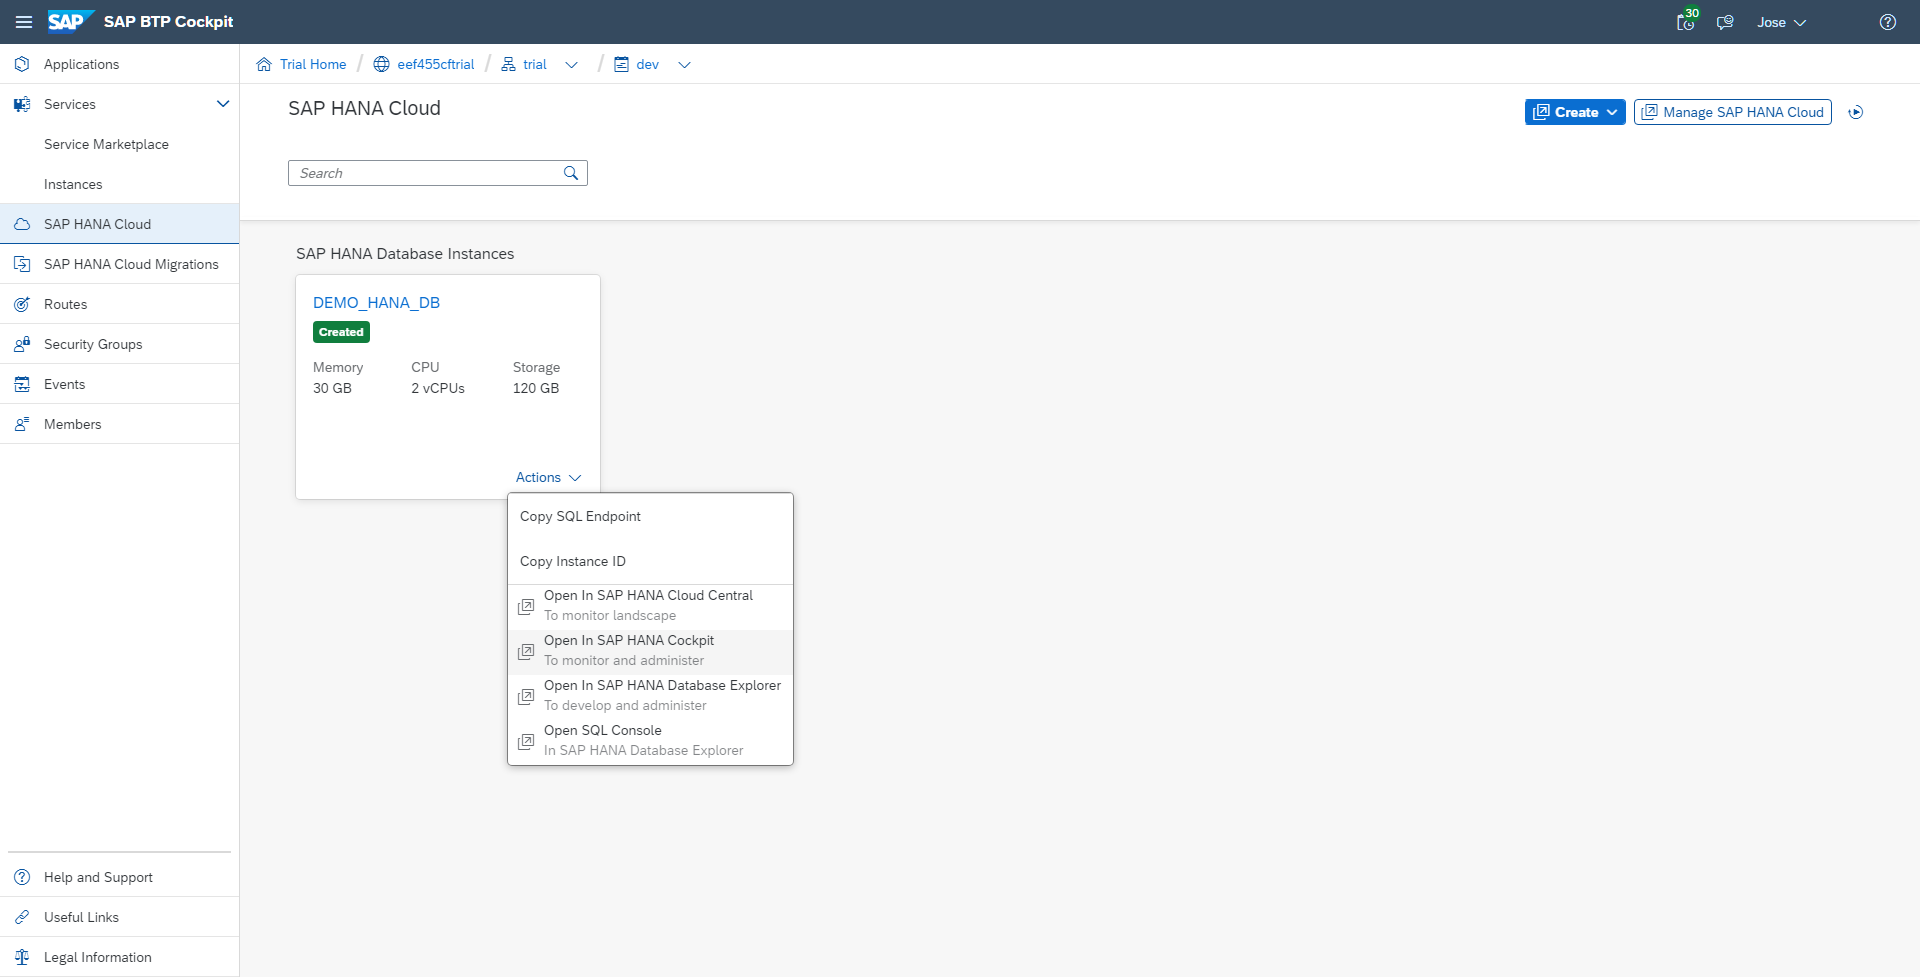
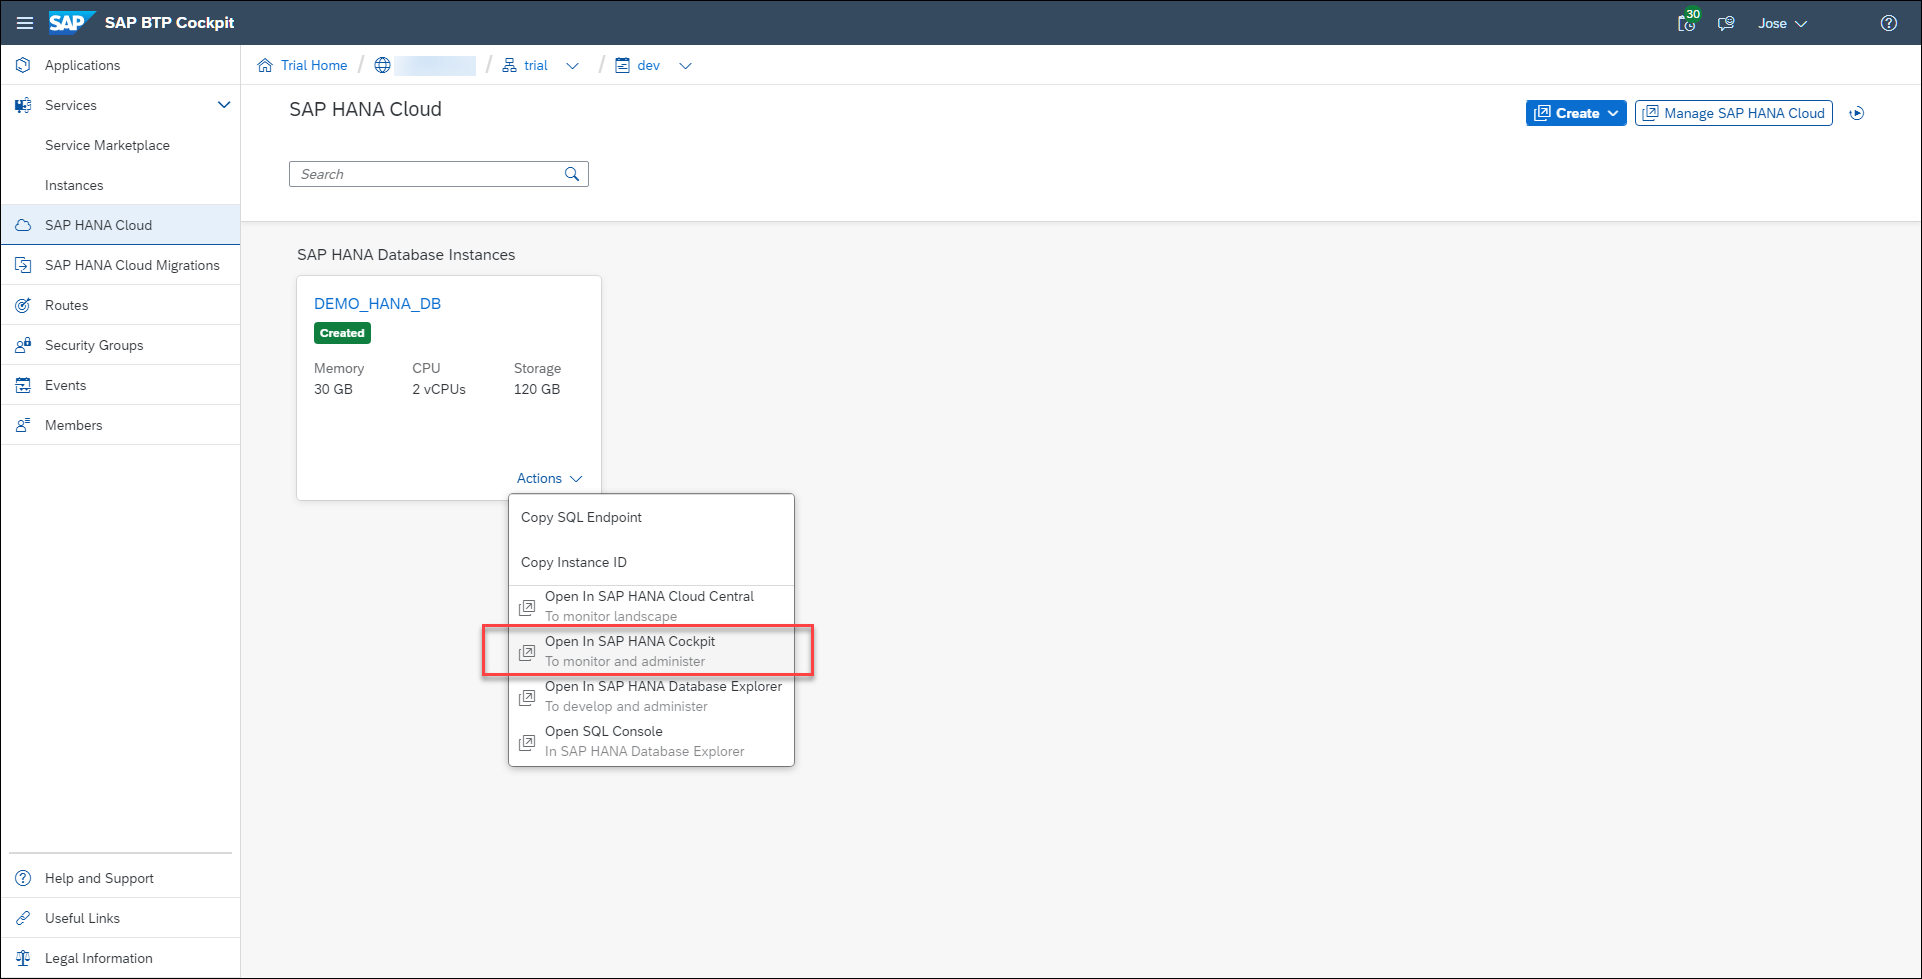
hana cockpit ex 1 update

diff --git a/exercises/hana_cockpit/ex_1/README.md b/exercises/hana_cockpit/ex_1/README.md
@@ -6,10 +6,18 @@ Through the Database Overview page, you can view key health indicators for this 
 
 This exercise will teach you the basics of navigating the Database Overview page and how to find the information you need as a database administrator.
 
-1. Navigate to your SAP HANA Cloud Trial instance from the SAP BTP Cockpit ("trial" subaccount and "dev" space). Open the SAP HANA cockpit by clicking item **Open in SPA HANA Cockpit** from the **Actions** menu.
+1. Navigate to your SAP HANA Cloud Trial instance from the SAP BTP Cockpit ("trial" subaccount and "dev" space). Open the SAP HANA cockpit by clicking item **Open in SAP HANA Cockpit** from the **Actions** menu.
 
     **Note:** *If this is the first time you launch the SAP HANA cockpit or SAP HANA Database Explorer, you will be asked to enter your credentials. The default username is DBADMIN and the password is what you entered when creating the instance.*
 
-    ![](./images/1-01_BTPCockpit.png)
+    ![SAP BTP Cockpit](./images/1-01_BTPCockpit.png)
 
-2. At the top of the Database Overview page, you'll find the toolbar, displaying the name of the currently managed database TechEd-hana and the database username (DBADMIN) you're connecting as to that database.
+2. At the top of the Database Overview page, you'll find the toolbar. The top left displays the name of the currently managed database "DEMO_HANA_DB" and the database username (DBADMIN) you're connecting as to that database. The top right contains the user button (for user-specific settings and options), the notifications button, the help button (for content-specific online help), the auto-refresh interval button (can be every 10/20/30 seconds or 1/5/10 minutes), the manual refresh button, and the switch databases button.
+
+    ![SAP HANA Cockpit Toolbar](./images/1-02_Toolbar.png)
+
+3. You can switch between multiple databases or navigate to multiple databases by clicking on the button **Open Other Databases**. Click on it to see a pop up, where you can select one or multiple databases that you want to navigate to. Once the databases that we need to be opened is selected from this pop up, if we click on OK, all the selected databases are opened simultaneously on new browser tabs.
+
+    ![Open Other Databases](./images/1-03_OpenOtherDBs.png)
+
+    Click on Close to close the pop up.
